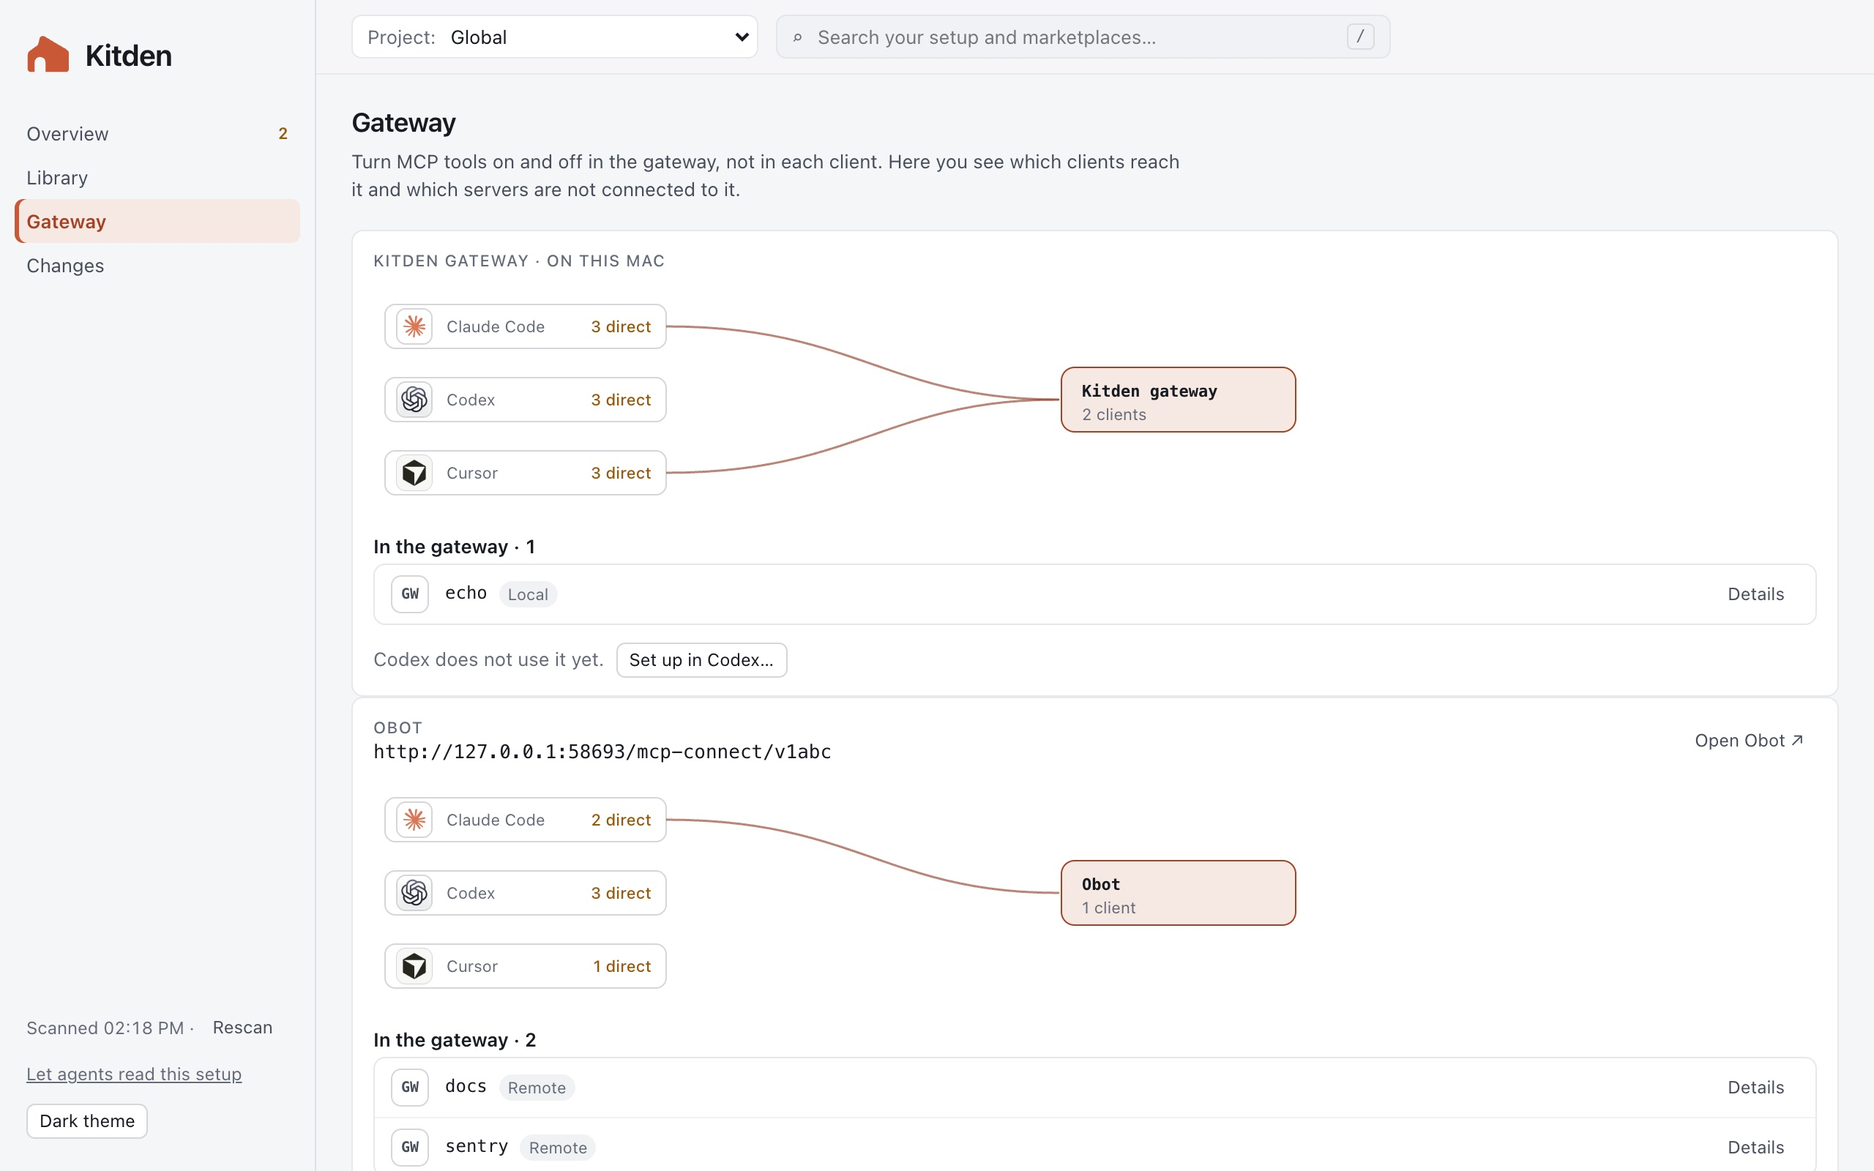
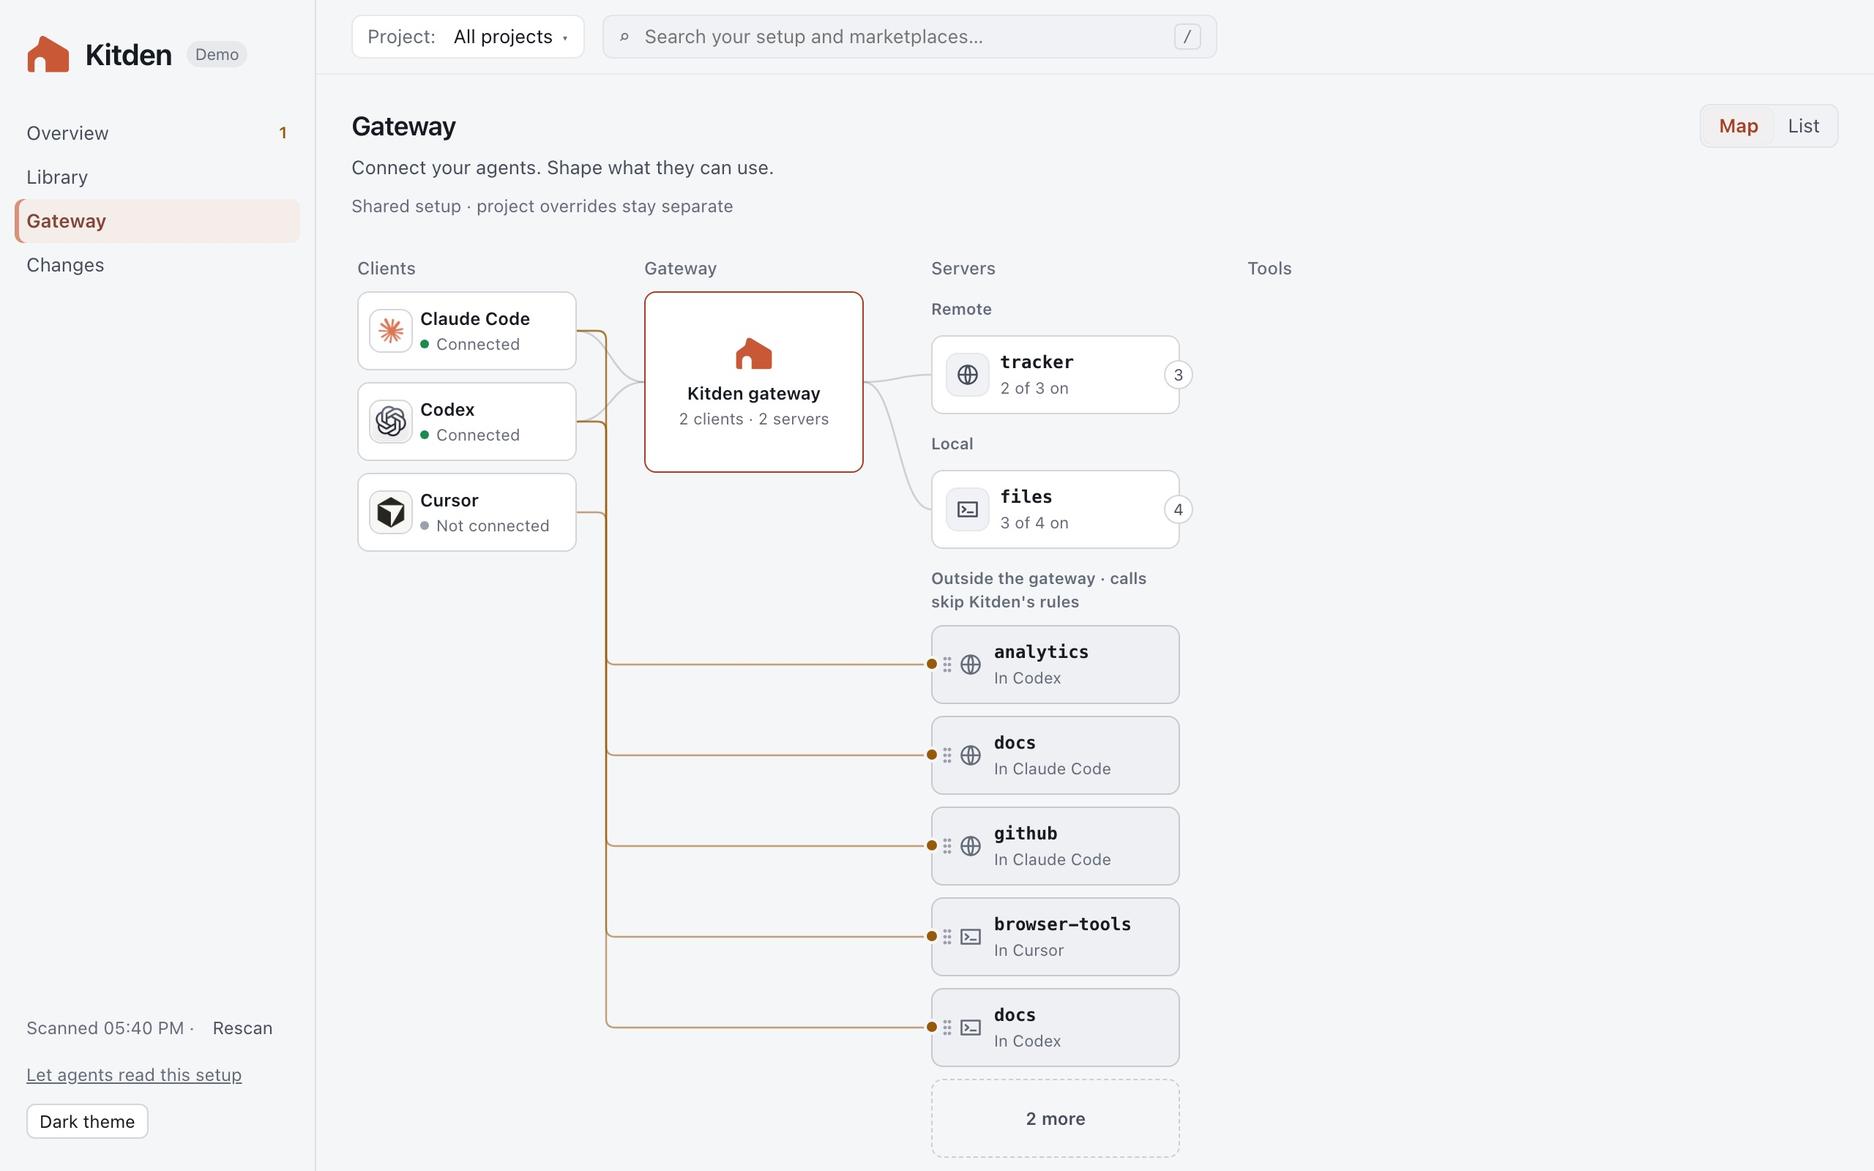
Docs: name each number's source, show the Gateway map
development.md says which numbers came from the browser pane and which from node.
design.md uses the page's own color words. The README pictures show the map.

diff --git a/docs/design.md b/docs/design.md
@@ -37,7 +37,7 @@ Canonical asset: `src/kitden/web/static/brand/kitden.svg`. The sidebar and favic
 | Preview fill (`--preview-fill`): a block that is only a preview | #A4422612 | #F09A7C10 |
 | Preview line (`--preview-line`): the edge of a preview block | #A4422680 | #F09A7C80 |
 
-The brand mark is fixed; functional shades adapt for text contrast. Text on the action, success and dim fills, and diff text on its tint and on the drawer, keeps at least 4.5:1 in both themes (WCAG 2.2 AA, checked 2026-10-19); `tests/unit/test_contrast.py` holds the line. The frames' `kd-faint` is for icons, grips and hollow marks only (`--lamp-off`); text uses `--ink-3`. Text a frame paints `kd-ok` uses `--diff-add`. Do not use the logo color for every small label. Success stays green, warnings amber and errors red, paired with text/shape. A server a client sets up on its own is joined to that client by a faint amber elbow (`--lamp-warn` at 55%): its calls skip Kitden's rules. Amber here marks a route outside the rules, not a fault. Vendor marks must retain their own permitted colors when verified; Claude, Cursor and Codex use local vendor icons (see `src/kitden/web/static/brand/clients/ATTRIBUTION.md`). Neutral monograms are used only for unknown clients or failed image loads.
+The brand mark is fixed; functional shades adapt for text contrast. Text on the action, success and dim fills, and diff text on its tint and on the drawer, keeps at least 4.5:1 in both themes (WCAG 2.2 AA, checked 2026-10-19); `tests/unit/test_contrast.py` holds the line. Icons, grips and hollow marks use `--lamp-off`, which fails 4.5:1 as text, so text uses `--ink-3`. Green text uses `--diff-add`, not the lamp color. Do not use the logo color for every small label. Success stays green, warnings amber and errors red, paired with text/shape. A server a client sets up on its own is joined to that client by a faint amber elbow (`--lamp-warn` at 55%): its calls skip Kitden's rules. Amber here marks a route outside the rules, not a fault. Vendor marks must retain their own permitted colors when verified; Claude, Cursor and Codex use local vendor icons (see `src/kitden/web/static/brand/clients/ATTRIBUTION.md`). Neutral monograms are used only for unknown clients or failed image loads.
 
 ## Client marks
 
@@ -80,7 +80,7 @@ A review leads with the outcome, in this order.
 | Body | The After chips, then the folded file change, as before. A chip keeps only its own note (why Cursor gains or loses a plugin); the Undo limit is said once, in the lede. |
 | Settings changed | After each rescan an open review asks the server whether its files changed since the preview (the same check Apply makes; for an entry check, only that entry counts). If so, an amber callout comes first, read out at once: "Settings changed since this preview." It stays until the next action (Motion principle 4). Apply gives way to a primary "Preview again", which drops this preview and opens a new one; focus moves to it only if it was on Apply. Nothing is checked while a change is being written. |
 
-Review bar: a preview started on the Gateway map shows on the map, not in Details (`reviewBar` in `review.js`; frames A1–A3). The bar sits under the map at the left, on the raised panel, and stays in sight at the bottom while the page scrolls. It says the title with its scope ("Move github into the Kitden gateway for all projects"), one outcome line from the After chips ("Claude Code and Codex: Via gateway."), then "Show changes", Cancel and Apply; focus goes to Apply. While Apply runs, Apply counts the steps the server reports ("Applying 2 of 3"), the line names every client the steps write ("Writing Claude Code's settings. A backup is kept.", "Writing the settings of the Kitden gateway and Claude Code. A backup is kept."), and Cancel stays in place but waits. An error stays in the bar until the next action, with a red edge and focus on "Try again", which asks for a new preview (focus then goes to its Apply). It says why it stopped and makes the same "Nothing was changed." call as the review in Details (`stoppedWords` in `review.js`): only when no file was written or the engine put every file back ("Settings changed since this preview. Nothing was changed."). It leaves out the engine's own words, which name paths and commands; they stay in the review's Details and on Changes. When the engine could not put everything back, it says "The change did not check out. Not everything was put back. Check Changes before trying again."; an unknown end says "Could not confirm the result. Check Changes before trying again.". When the bar is no longer on the page as Apply ends (the person went to the List or another place), a toast with no check says the same words after the title, with "Open Changes" for those two, and the preview goes. A preview the server refuses says "Could not prepare this change", the server's reason and "Nothing was changed.", and keeps only Cancel: trying again would be refused for the same reason. "Show changes" (or a press on the preview block) moves the same preview into Details as its full review and hides the bar, so one change never has two Apply buttons; Cancel there, Escape or other Details end it, and its Apply ends as the bar's does. One preview at a time: while a preview block shows no block has a grip (a new drop replaces a refusal), a review asked from Details or the List first cancels the preview, a drop while a review shows in Details ends that review first (as other Details would), and while a change is written nothing else is asked and a grip does nothing. The List, another place or another project cancels one that is only previewed; one being written goes on.
+Review bar: a preview started on the Gateway map shows on the map, not in Details (`reviewBar` in `review.js`). The bar sits under the map at the left, on the raised panel, and stays in sight at the bottom while the page scrolls. It says the title with its scope ("Move github into the Kitden gateway for all projects"), one outcome line from the After chips ("Claude Code and Codex: Via gateway."), then "Show changes", Cancel and Apply; focus goes to Apply. While Apply runs, Apply counts the steps the server reports ("Applying 2 of 3"), the line names every client the steps write ("Writing Claude Code's settings. A backup is kept.", "Writing the settings of the Kitden gateway and Claude Code. A backup is kept."), and Cancel stays in place but waits. An error stays in the bar until the next action, with a red edge and focus on "Try again", which asks for a new preview (focus then goes to its Apply). It says why it stopped and makes the same "Nothing was changed." call as the review in Details (`stoppedWords` in `review.js`): only when no file was written or the engine put every file back ("Settings changed since this preview. Nothing was changed."). It leaves out the engine's own words, which name paths and commands; they stay in the review's Details and on Changes. When the engine could not put everything back, it says "The change did not check out. Not everything was put back. Check Changes before trying again."; an unknown end says "Could not confirm the result. Check Changes before trying again.". When the bar is no longer on the page as Apply ends (the person went to the List or another place), a toast with no check says the same words after the title, with "Open Changes" for those two, and the preview goes. A preview the server refuses says "Could not prepare this change", the server's reason and "Nothing was changed.", and keeps only Cancel: trying again would be refused for the same reason. "Show changes" (or a press on the preview block) moves the same preview into Details as its full review and hides the bar, so one change never has two Apply buttons; Cancel there, Escape or other Details end it, and its Apply ends as the bar's does. One preview at a time: while a preview block shows no block has a grip (a new drop replaces a refusal), a review asked from Details or the List first cancels the preview, a drop while a review shows in Details ends that review first (as other Details would), and while a change is written nothing else is asked and a grip does nothing. The List, another place or another project cancels one that is only previewed; one being written goes on.
 
 The Library has one row per item and one column per client found on this computer.
 
@@ -106,7 +106,7 @@ The Gateway page shows the clients, the Kitden gateway, any registered gateway (
 
 | Part | Look |
 | --- | --- |
-| Gateway map | One tree read left to right, in the columns "Clients", "Gateway", "Servers" and "Tools" (`map.js`). The link is the state: a link means on, no link means off, and the map shows no state word (a screen reader hears "On", "Off" or "Not known"). A client shows its tile and a dot before "Connected" or "Not connected"; the Kitden gateway the house and "2 clients · 3 servers"; a server in it an icon, "3 of 4 on" (or "On in 2 projects") and, while folded, its tool count in a pill on the right edge; a tool a square, filled in the accent when on, hollow on the dim fill when off. Servers sit in "Remote" and "Local"; a group over six shows five and "N more", which opens the List at that group. Servers outside the gateway sit on the dim fill under "Outside the gateway · calls skip Kitden's rules", with "In Codex" and an amber elbow from each client that sets them up; a grip shows only where the Kitden gateway can take the server. In a project, "This project" marks a tool rule of its own or an outside server the project defines its own way; "Only this project" a server only this project turns on. A click or Enter selects a block: it lights every client's path to it (a client lights what it reaches) and opens its Details beside the page; a server also unfolds or folds, one at a time, with an accent border and handle while open. Escape clears the selection and closes Details. Every block is a button, in reading order. Narrow (under 1024 px, under 1280 px with Details beside the page, or when the wide map does not fit), the gateway is a small house tile and tools unfold down inside their server on a rail (N1). On a first run (no client has the kitden entry and the Kitden gateway holds nothing) a client says "Found · 2.1.4" and the gateway is a dashed slot, "No gateway yet", "One place for servers, rules and logins." and "Set up…", one review for every client; nothing has a grip (R1). |
+| Gateway map | One tree read left to right, in the columns "Clients", "Gateway", "Servers" and "Tools" (`map.js`). The link is the state: a link means on, no link means off, and the map shows no state word (a screen reader hears "On", "Off" or "Not known"). A client shows its tile and a dot before "Connected" or "Not connected"; the Kitden gateway the house and "2 clients · 3 servers"; a server in it an icon, "3 of 4 on" (or "On in 2 projects") and, while folded, its tool count in a pill on the right edge; a tool a square, filled in the accent when on, hollow on the dim fill when off. Servers sit in "Remote" and "Local"; a group over six shows five and "N more", which opens the List at that group. Servers outside the gateway sit on the dim fill under "Outside the gateway · calls skip Kitden's rules", with "In Codex" and an amber elbow from each client that sets them up; a grip shows only where the Kitden gateway can take the server. In a project, "This project" marks a tool rule of its own or an outside server the project defines its own way; "Only this project" a server only this project turns on. A click or Enter selects a block: it lights every client's path to it (a client lights what it reaches) and opens its Details beside the page; a server also unfolds or folds, one at a time, with an accent border and handle while open. Escape clears the selection and closes Details. Every block is a button, in reading order. Narrow (under 1024 px, under 1280 px with Details beside the page, or when the wide map does not fit), the gateway is a small house tile and tools unfold down inside their server on a rail. On a first run (no client has the kitden entry and the Kitden gateway holds nothing) a client says "Found · 2.1.4" and the gateway is a dashed slot, "No gateway yet", "One place for servers, rules and logins." and "Set up…", one review for every client; nothing has a grip. |
 | Gateway List | A tree grid: the group "Clients" ("Connected" or "Not connected"; "Not known" when Kitden could not read the clients' setup), each gateway's own row (its server count, or "Could not read its settings.") with its "Remote" and "Local" groups, then "Outside the gateway · calls skip Kitden's rules". Columns: Name (a dot, filled when on, the name and its tag), Used by (18 px client tiles), Tools ("3 of 4 on"; a server outside the gateway shows none) and the action: ›, or "Move in…" on an outside row a move can take. An open server shows its tools: a dot, the name, and "Read" or "Write" when the server says so, "May write" when only its name suggests it. One row is in the Tab order: Down, Up, Home and End move, Right unfolds or goes in, Left folds or goes up, Enter opens Details beside the page. A click opens Details; the ▸ folds. |
 | Outside server, client and gateway Details | Cards in the Details column (`gateway-details.js`). A server outside the gateway: In (client tiles), Kind (Remote, Local or From a plugin) and Gateway "Outside · calls skip Kitden's rules", then one sentence ("Claude Code calls it directly, so Kitden's tool rules do not reach it."). Its actions: "Move into the gateway…" (or, quietly, why it stays), "Remove direct entry…" when no gateway takes a remote one, "+ Add to Codex…" while no client gets it through a gateway, and a Remove for each of its entries; its definitions come from `/api/explain`. A client: Version, Kitden entry (On, Off, Old or Not set up) and Gateway; both say "Not known" when the setup was not read; "Set up in Codex…" and "Open ChatGPT". With its own kitden entry off, Codex offers "Turn it on in Codex…" (its `enabled` key, a review titled "Turn on the kitden entry in Codex"); Claude Code and Cursor keep that switch in their own settings, so their sentence ends "Turn it on in Cursor's own MCP settings." (docs checked 2026-10-24). The Kitden gateway: Clients, Servers and Rules ("1 project has its own rules", "2 projects have their own rules"); "Move all N…" (every outside server a move can take, in one review, except a name in two outside groups, which moves on its own once one copy is kept) and "Add another gateway…" (the form in the column). A registered gateway: Clients, Servers (read from it live), Used or Not used; "Open Obot ↗", "Use this gateway…" and "Connect clients"; its address under Technical details. |
 | Tool Details | A tool of a server in the Kitden gateway (`toolCard` in `gateway-details.js`), for the picked project. Facts: Server ("github · Remote"), State ("On", "Off", "On in this project", "Off in this project" or "Off · server off"), Comes from ("All projects", "This project · website" in the accent, "From atlas", "On by default" or "New · waits"), Reported ("Read only", "May write", "Not reported · its name suggests it writes" or "Not reported"), Clients (tiles) and Calls ("12 calls · last today 14:02", only with calls). The sentence: "Claude Code and Codex can call this tool through Kitden in website." ("can't call" when it is off). With All projects it says "by the shared rule", never "in any project", and counts the known projects whose own rules decide otherwise: "… by the shared rule. 2 projects decide otherwise." (the server's /api/gateway/tools answer has each known project's state, as the gateway decides it there). Actions, in order: "Use the shared rule…" for a rule of the project's own ("Use atlas's rule…" when it then follows a parent folder); "Turn on for all projects…" or "Turn off for all projects…" (the other way from the shared state); "Turn on in one project…" or "Turn off in one project…" (the other way from the state shown). That last one shows the project choice under the actions (`projectChoice` in `details.js`): only the known projects where the state is not that already, by folder name with their own rules, no All projects, starting on the picked project (or the first); with no such project, or before Kitden read each project's rules, the action is not offered; Down, Up, Home and End move, Enter or a click opens the review for that project, Escape hides the choice and gives focus back to the action. The picked project at the top stays. With its server off a tool says "Off · server off" and "files is off in web, so none of its tools can be called." ("off by the shared rule" with All projects, with the same count), and offers only "Open files": a tool rule there would change nothing anyone can call. The server's own description waits under Technical details. Picking another project, also by Back or an edited address, closes the panel, cancels an open review and drops one still being prepared, except while a change is being written, so an action never acts on a project it does not name. |

diff --git a/docs/development.md b/docs/development.md
@@ -62,22 +62,29 @@ only in the background, when its binary is new or changed.
 
 Measured: first usable 0.1 s, complete 0.1 to 0.2 s, demo under 0.1 s (checked 2026-10-23,
 Apple M4 Max, macOS 26.6.2). With Python's own start, `uv run kitden demo` has its first overview
-in about 0.3 s (checked 2026-10-22). The gateway view took 2 ms when the map was first built and
-3 to 6 ms once each server carried its tool list; two runs on 2026-10-24 gave 5 to 7 ms.
+in about 0.3 s (checked 2026-10-22). On the large sample the gateway view took 5 and 7 ms in two
+runs (checked 2026-10-24, Apple M4 Max, macOS 26.6.2).
 
-The Gateway map has its own marks. `uv run python scripts/measure-start.py --probe` builds the
-probe sample (the medium sample with direct servers added until the Gateway has 20 servers),
-opens the page on it, prints its links and waits for Ctrl+C. In a browser, open
-`#gateway?view=map` and read two marks: `kitden:map-draw`, one drawing of the map (limit 50 ms),
-and `kitden:gateway-drawn`, the time from the start of the navigation until the Gateway is drawn.
-The node test `tests/frontend/map.test.mjs` times the layout of 20 servers and of the large
-sample (limit 16 ms).
+The Gateway map has two marks and a layout test. `uv run python scripts/measure-start.py --probe`
+builds the probe sample (the medium sample with direct servers added until the Gateway has 20
+servers), starts the page on it, prints its links and waits for Ctrl+C. It opens no browser: open
+the `#gateway?view=map` link in one and read the marks.
 
-Measured 2026-10-24 on the probe sample, in the built-in browser pane of the Claude desktop app
-(Apple M4 Max, macOS 26.6.2), on the first build of the map, 5 loads of `#gateway?view=map`:
-`kitden:map-draw` median 1.1 ms; `kitden:gateway-drawn` median 52.4 ms, against 51.2 ms for the
-cards page before the map. The layout took a median of 0.02 ms for 20 servers and 0.04 to 0.08 ms
-for the large sample.
+- `kitden:map-draw`, a `performance.measure`: building the map's blocks and links, not the
+  browser's own layout and paint. Limit 50 ms.
+- `kitden:gateway-drawn`, a `performance.mark`: the time from the start of the navigation until
+  the Gateway is drawn.
+- `tests/frontend/map.test.mjs` times the layout of 20 servers and of the large sample in node.
+  Limit 16 ms.
+
+Measured 2026-10-24 (Apple M4 Max, macOS 26.6.2):
+
+- Browser pane of the Claude desktop app, probe sample, 5 loads of `#gateway?view=map`, on the
+  first build of the map (an early build, before its Details, find and drag): `kitden:map-draw`
+  median 1.1 ms; `kitden:gateway-drawn` median 52.4 ms, against 51.2 ms for the cards page
+  before the map.
+- Node, `map.test.mjs`, on the code as it is today, 3 runs: layout median 0.03 to 0.04 ms for 20
+  servers and 0.11 to 0.12 ms for the large sample.
 
 ## Check before a release
 

diff --git a/README.md b/README.md
@@ -116,7 +116,7 @@ and terminal tools stay outside it.
 <p align="center">
   <picture>
     <source media="(prefers-color-scheme: dark)" srcset="https://raw.githubusercontent.com/KonstantinStarovoytov/kitden/main/docs/images/gateway-dark.jpg">
-    <img src="https://raw.githubusercontent.com/KonstantinStarovoytov/kitden/main/docs/images/gateway.jpg" alt="Gateway: the Kitden gateway first, with Claude Code and Cursor linked to it and one server it holds, then an Obot gateway below" width="860">
+    <img src="https://raw.githubusercontent.com/KonstantinStarovoytov/kitden/main/docs/images/gateway.jpg" alt="The Gateway map: Claude Code and Codex linked to the Kitden gateway and its two servers, with the servers outside the gateway below, each joined to its client by an amber line" width="860">
   </picture>
 </p>
 
